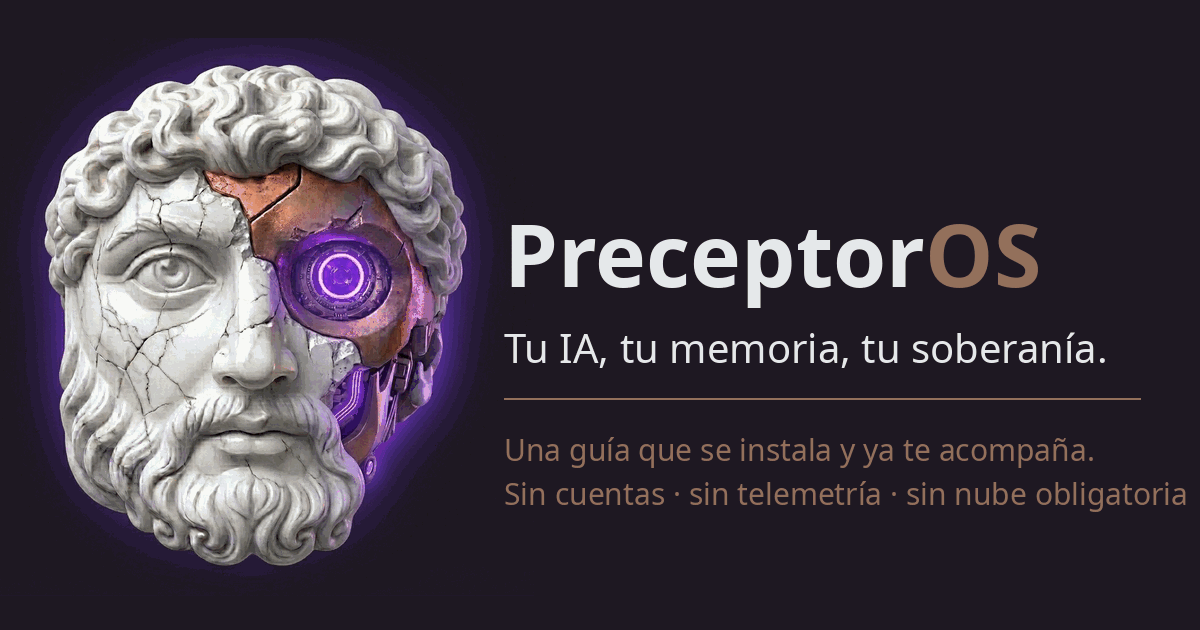
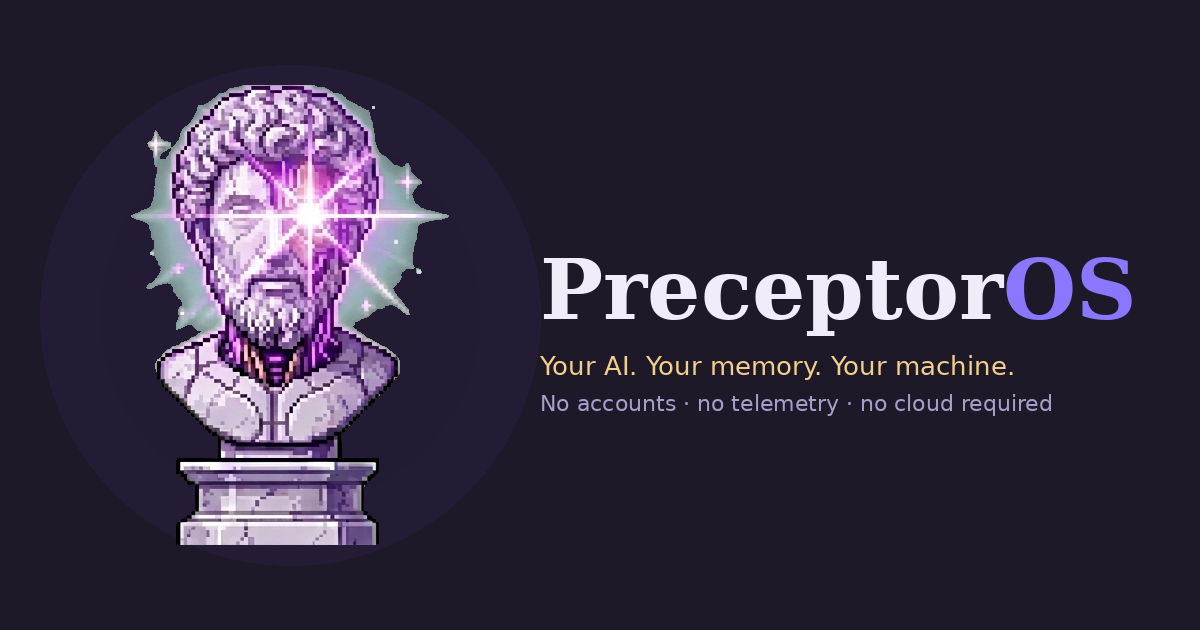
feat(seo): la tarjeta lleva el busto de pixel y el nombre solo · y va en ingles
TRES COSAS PEDIDAS, Y LAS TRES MEDIDAS EN VEZ DE ESTIMADAS.

1 · EL NOMBRE SOLO. `og:title` pasa de «PreceptorOS · Tu IA, tu memoria, tu
soberania» a `PreceptorOS`. El «OS» en violeta no puede ir en el titulo --el
texto de una etiqueta no tiene color-- asi que va en la IMAGEN, que es donde se
ve: «Preceptor» en marmol y «OS» en violeta.

2 · EL BUSTO DE PIXEL, el del README de GitHub. Estaba en la hoja de sprites de
`Cuarentena/pixel.png` sobre croma verde, y es el de abajo a la izquierda -- el
del destello. Se recorto midiendo la caja por la mascara de croma, no a ojo.

DOS CICATRICES APLICADAS AQUI, y las dos estaban ya escritas en la casa:
NEAREST y no LANCZOS al escalar --promediar arte de pixel le come el grano y
empardece el violeta-- y DESPILL de verdad. Con la version suave quedaba un halo
gris-verde alrededor del resplandor: el verde se lleva al minimo entre el maximo
de los otros dos canales y su media, no solo al maximo.

Y EL CUERPO DE LA LETRA SE BUSCA, no se fija. A 92 puntos «PreceptorOS» en serif
se salia del lienzo y el «OS» aparecia cortado -- se vio al mirar la imagen, no
al escribirla. Ahora se prueba hacia abajo hasta que cabe: 84, 597 px de 600.

3 · EL SEO SIEMPRE EN INGLES, en las nueve portadas. La tarjeta que se comparte
la abre gente que llega de cualquier sitio, y una descripcion en castellano en
un enlace que circula por LinkedIn habla a la mitad de quien lo ve. Los `title`
[…]

Changed region(s): [[0.0, 0.0603, 0.9558, 0.9048], [0.4317, 0.6937, 0.9867, 0.8143], [0.4317, 0.6333, 0.8942, 0.6635]]

diff --git a/public/el/index.html b/public/el/index.html
@@ -6,8 +6,8 @@
 <title>PreceptorOS · Ο κυρίαρχος σύντροφός σου</title>
 <meta name="description" content="PreceptorOS · Ο κυρίαρχος σύντροφος ΤΝ σου. Εγκατάστησέ τον στο μηχάνημά σου, χωρίς σύννεφο, χωρίς τηλεμετρία. Σερβίρεται από ένα rack 99% ηλιακό. Η μνήμη σου, η ταυτότητά σου, η ιδιωτικότητά σου.">
 <link rel="icon" type="image/svg+xml" href="/assets/favicon.svg">
-<meta property="og:title" content="PreceptorOS · Η ΤΝ σου, η μνήμη σου, η κυριαρχία σου">
-<meta property="og:description" content="Ο οδηγός ΤΝ σου στο σπίτι: εγκαθίσταται και σε συνοδεύει αμέσως. Μόνιμη μνήμη στο μηχάνημά σου, καθαρισμένο συμφραζόμενο πριν βγει έξω. Χωρίς λογαριασμούς, χωρίς τηλεμετρία, χωρίς υποχρεωτικό σύννεφο.">
+<meta property="og:title" content="PreceptorOS">
+<meta property="og:description" content="Your AI, your memory, your machine. A guide that installs and then stays with you. Persistent memory on your own disk. No accounts, no telemetry, no cloud required.">
 <meta property="og:image" content="https://preceptoros.org/assets/preceptor-og.png">
 <meta property="og:url" content="https://preceptoros.org/el/">
 <meta property="og:type" content="website">

diff --git a/public/ru/index.html b/public/ru/index.html
@@ -6,8 +6,8 @@
 <title>PreceptorOS · Твой суверенный спутник</title>
 <meta name="description" content="PreceptorOS · Твой суверенный ИИ-спутник. Поставь его на свою машину: без облака, без телеметрии. Раздаётся со стойки, работающей на 99% от солнца. Твоя память, твоя личность, твоя частная жизнь.">
 <link rel="icon" type="image/svg+xml" href="/assets/favicon.svg">
-<meta property="og:title" content="PreceptorOS · Твой ИИ, твоя память, твой суверенитет">
-<meta property="og:description" content="Твой ИИ-проводник дома: ставится и сразу идёт рядом. Постоянная память на твоей машине, контекст очищается прежде чем выйти наружу. Без учётных записей, без телеметрии, без обязательного облака.">
+<meta property="og:title" content="PreceptorOS">
+<meta property="og:description" content="Your AI, your memory, your machine. A guide that installs and then stays with you. Persistent memory on your own disk. No accounts, no telemetry, no cloud required.">
 <meta property="og:image" content="https://preceptoros.org/assets/preceptor-og.png">
 <meta property="og:url" content="https://preceptoros.org/ru/">
 <meta property="og:type" content="website">

diff --git a/public/de/index.html b/public/de/index.html
@@ -6,8 +6,8 @@
 <title>PreceptorOS · Dein souveräner Begleiter</title>
 <meta name="description" content="PreceptorOS · Dein souveräner KI-Begleiter. Installiere ihn auf deinem Rechner, ohne Wolke, ohne Telemetrie. Ausgeliefert von einem zu 99% solaren Rack. Dein Gedächtnis, deine Identität, deine Privatsphäre.">
 <link rel="icon" type="image/svg+xml" href="/assets/favicon.svg">
-<meta property="og:title" content="PreceptorOS · Deine KI, dein Gedächtnis, deine Souveränität">
-<meta property="og:description" content="Dein KI-Führer zu Hause: installiert und schon begleitet er dich. Dauerhaftes Gedächtnis auf deinem Rechner, bereinigter Kontext vor dem Hinausgehen. Ohne Konten, ohne Telemetrie, ohne Zwangswolke.">
+<meta property="og:title" content="PreceptorOS">
+<meta property="og:description" content="Your AI, your memory, your machine. A guide that installs and then stays with you. Persistent memory on your own disk. No accounts, no telemetry, no cloud required.">
 <meta property="og:image" content="https://preceptoros.org/assets/preceptor-og.png">
 <meta property="og:url" content="https://preceptoros.org/de/">
 <meta property="og:type" content="website">

diff --git a/public/it/index.html b/public/it/index.html
@@ -6,8 +6,8 @@
 <title>PreceptorOS · Il tuo compagno sovrano</title>
 <meta name="description" content="PreceptorOS · Il tuo compagno di IA sovrano. Installalo sulla tua macchina, senza nuvola, senza telemetria. Servito da un rack al 99% solare. La tua memoria, la tua identità, la tua privacy.">
 <link rel="icon" type="image/svg+xml" href="/assets/favicon.svg">
-<meta property="og:title" content="PreceptorOS · La tua IA, la tua memoria, la tua sovranità">
-<meta property="og:description" content="La tua guida di IA in casa: si installa e ti accompagna. Memoria persistente sulla tua macchina, contesto ripulito prima di uscire. Senza account, senza telemetria, senza nuvola obbligatoria.">
+<meta property="og:title" content="PreceptorOS">
+<meta property="og:description" content="Your AI, your memory, your machine. A guide that installs and then stays with you. Persistent memory on your own disk. No accounts, no telemetry, no cloud required.">
 <meta property="og:image" content="https://preceptoros.org/assets/preceptor-og.png">
 <meta property="og:url" content="https://preceptoros.org/it/">
 <meta property="og:type" content="website">

diff --git a/public/fr/index.html b/public/fr/index.html
@@ -6,8 +6,8 @@
 <title>PreceptorOS · Votre compagnon souverain</title>
 <meta name="description" content="PreceptorOS · Votre compagnon IA souverain. Installez-le sur votre machine, sans nuage, sans télémétrie. Servi depuis un rack 99 % solaire. Votre mémoire, votre identité, votre vie privée.">
 <link rel="icon" type="image/svg+xml" href="/assets/favicon.svg">
-<meta property="og:title" content="PreceptorOS · Ton IA, ta mémoire, ta souveraineté">
-<meta property="og:description" content="Ton guide d'IA à la maison : il s'installe et il t'accompagne. Mémoire persistante sur ta machine, contexte assaini avant de sortir. Sans comptes, sans télémétrie, sans nuage.">
+<meta property="og:title" content="PreceptorOS">
+<meta property="og:description" content="Your AI, your memory, your machine. A guide that installs and then stays with you. Persistent memory on your own disk. No accounts, no telemetry, no cloud required.">
 <meta property="og:image" content="https://preceptoros.org/assets/preceptor-og.png">
 <meta property="og:url" content="https://preceptoros.org/fr/">
 <meta property="og:type" content="website">

diff --git a/public/pt/index.html b/public/pt/index.html
@@ -6,8 +6,8 @@
 <title>PreceptorOS · O teu companheiro soberano</title>
 <meta name="description" content="PreceptorOS · Tu compañero de IA soberano. Instálalo en tu máquina, sin nube, sin telemetría. Servido desde un rack 99% solar. Tu memoria, tu identidad, tu privacidad.">
 <link rel="icon" type="image/svg+xml" href="/assets/favicon.svg">
-<meta property="og:title" content="PreceptorOS · Tu IA, tu memoria, tu soberanía">
-<meta property="og:description" content="Tu guía de IA en casa: se instala y ya te acompaña. Memoria persistente en tu máquina, contexto saneado antes de salir. Sin cuentas, sin telemetría, sin nube obligatoria.">
+<meta property="og:title" content="PreceptorOS">
+<meta property="og:description" content="Your AI, your memory, your machine. A guide that installs and then stays with you. Persistent memory on your own disk. No accounts, no telemetry, no cloud required.">
 <meta property="og:image" content="https://preceptoros.org/assets/preceptor-og.png">
 <meta property="og:url" content="https://preceptoros.org/pt/">
 <meta property="og:type" content="website">

diff --git a/public/en/index.html b/public/en/index.html
@@ -6,8 +6,8 @@
 <title>PreceptorOS · Your sovereign companion</title>
 <meta name="description" content="PreceptorOS · Your sovereign AI companion. Install it on your own machine, no cloud, no telemetry. Served from a 99% solar rack. Your memory, your identity, your privacy.">
 <link rel="icon" type="image/svg+xml" href="/assets/favicon.svg">
-<meta property="og:title" content="PreceptorOS · Your AI, your memory, your sovereignty">
-<meta property="og:description" content="Your AI guide at home: install it and it is already with you. Persistent memory on your machine, context sanitised before it leaves. No accounts, no telemetry, no cloud.">
+<meta property="og:title" content="PreceptorOS">
+<meta property="og:description" content="Your AI, your memory, your machine. A guide that installs and then stays with you. Persistent memory on your own disk. No accounts, no telemetry, no cloud required.">
 <meta property="og:image" content="https://preceptoros.org/assets/preceptor-og.png">
 <meta property="og:url" content="https://preceptoros.org/en/">
 <meta property="og:type" content="website">

diff --git a/public/es/index.html b/public/es/index.html
@@ -6,8 +6,8 @@
 <title>PreceptorOS · Tu compañero soberano</title>
 <meta name="description" content="PreceptorOS · Tu compañero de IA soberano. Instálalo en tu máquina, sin nube, sin telemetría. Servido desde un rack 99% solar. Tu memoria, tu identidad, tu privacidad.">
 <link rel="icon" type="image/svg+xml" href="/assets/favicon.svg">
-<meta property="og:title" content="PreceptorOS · Tu IA, tu memoria, tu soberanía">
-<meta property="og:description" content="Tu guía de IA en casa: se instala y ya te acompaña. Memoria persistente en tu máquina, contexto saneado antes de salir. Sin cuentas, sin telemetría, sin nube obligatoria.">
+<meta property="og:title" content="PreceptorOS">
+<meta property="og:description" content="Your AI, your memory, your machine. A guide that installs and then stays with you. Persistent memory on your own disk. No accounts, no telemetry, no cloud required.">
 <meta property="og:image" content="https://preceptoros.org/assets/preceptor-og.png">
 <meta property="og:url" content="https://preceptoros.org/es/">
 <meta property="og:type" content="website">

diff --git a/public/index.html b/public/index.html
@@ -5,8 +5,8 @@
 <meta name="viewport" content="width=device-width, initial-scale=1">
 <title>PreceptorOS · Elige tu IA local</title>
 <link rel="icon" type="image/svg+xml" href="/assets/favicon.svg">
-<meta property="og:title" content="PreceptorOS · Tu IA, tu memoria, tu soberanía">
-<meta property="og:description" content="Tu guía de IA en casa: se instala y ya te acompaña. Memoria persistente en tu máquina, contexto saneado antes de salir. Sin cuentas, sin telemetría, sin nube obligatoria.">
+<meta property="og:title" content="PreceptorOS">
+<meta property="og:description" content="Your AI, your memory, your machine. A guide that installs and then stays with you. Persistent memory on your own disk. No accounts, no telemetry, no cloud required.">
 <meta property="og:image" content="https://preceptoros.org/assets/preceptor-og.png">
 <meta property="og:url" content="https://preceptoros.org/">
 <meta property="og:type" content="website">
